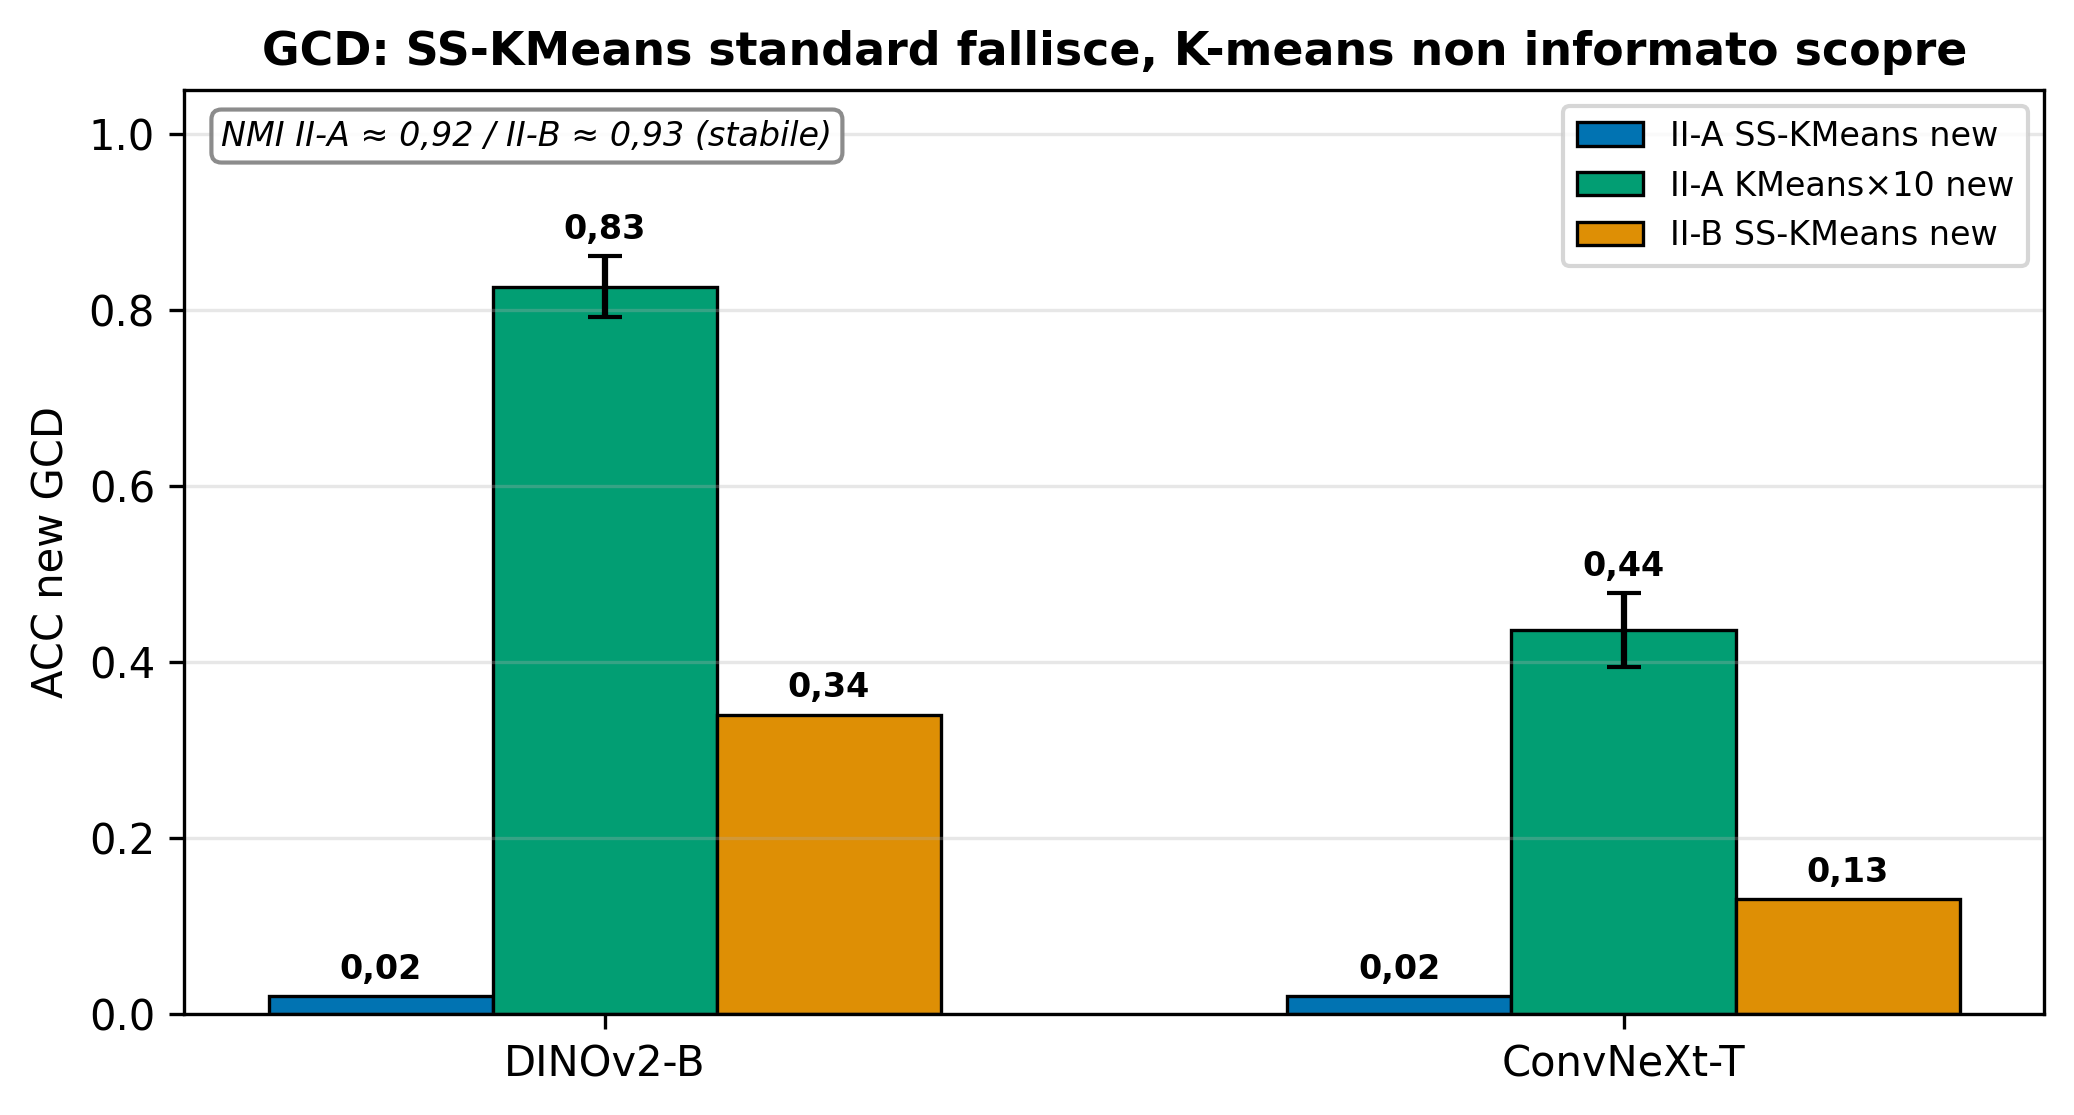
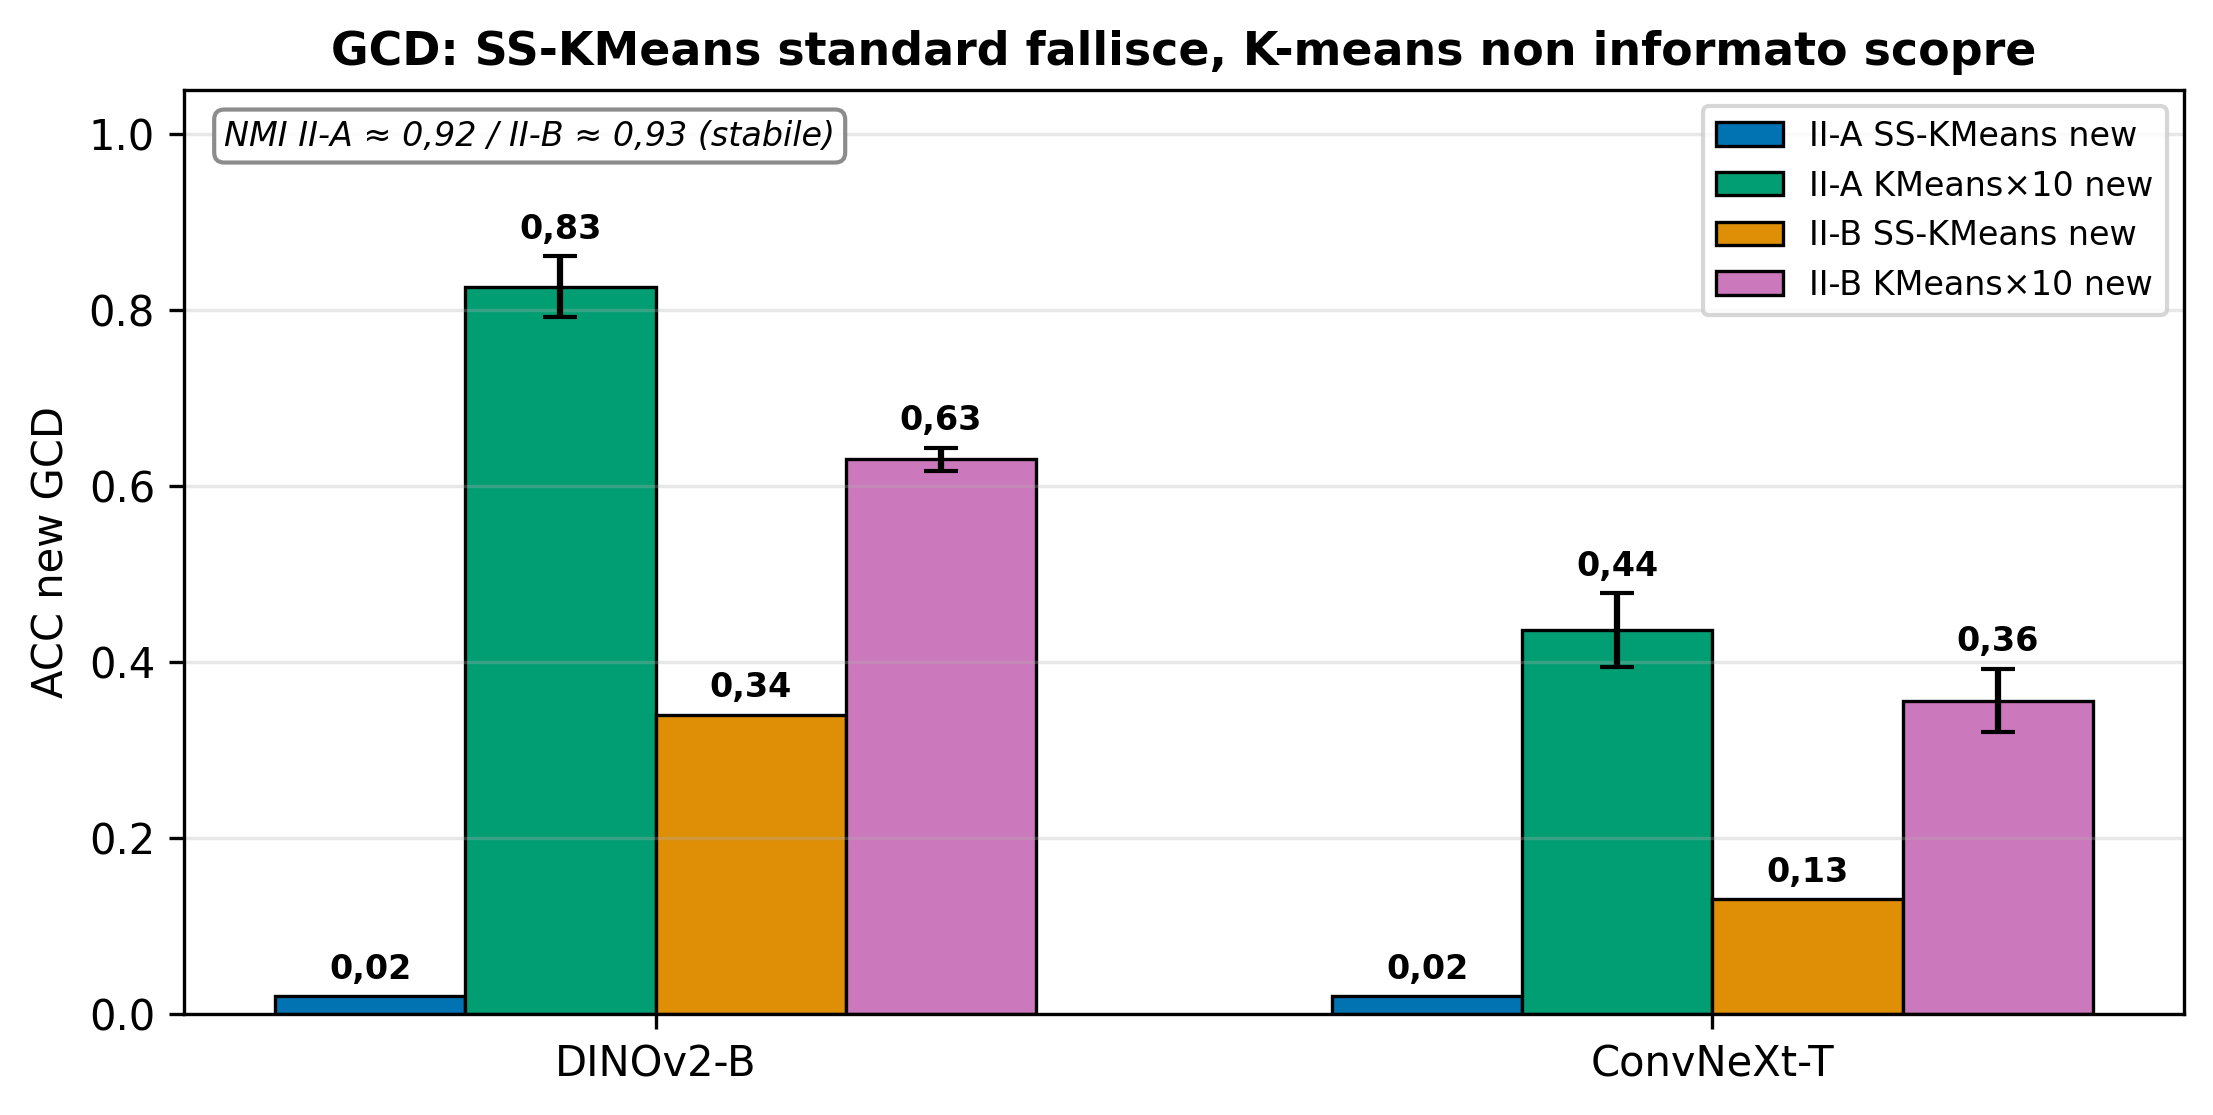
feat(gcd): barre K-meansx10 II-B (0,63-0,74 DINOv2)

diff --git a/backend/app/figures/gcd.py b/backend/app/figures/gcd.py
@@ -4,7 +4,8 @@
 Honest design: only metrics read from real result files, no invented proxies.
 - II-A (1 novel, garganica): SS-KMeans ACC_new ~0.02 (standard method fails),
   uninformed KMeansx10 ACC_new 0.83 (DINOv2-B discovers).
-- II-B (2 novel): SS-KMeans ACC_new 0.13-0.38, NMI ~0.93 stable.
+- II-B (2 novel): SS-KMeans ACC_new 0.13-0.38, NMI ~0.93 stable;
+  uninformed KMeansx10 ACC_new 0.63-0.74 on DINOv2 (discovers).
 ACC_old is by construction (labeled fixed) and lives in the table, not here.
 """
 
@@ -53,7 +54,7 @@ def _read_exp4() -> dict[str, dict[str, float]]:
 
 
 def _read_exp5() -> dict[str, dict[str, float]]:
-    """exp5 ncd_results.json -> {model: {ss_new, nmi}}."""
+    """exp5 ncd_results.json (SS-KM) + gcd_results.json (KMeansx10) -> {model: {...}}."""
     proj = Path(__file__).resolve().parents[2]
     out: dict[str, dict[str, float]] = {}
     for f in glob.glob(str(proj / "experiments" / "exp5_sphor_ncd_*" / "ncd_results.json")):
@@ -64,6 +65,18 @@ def _read_exp5() -> dict[str, dict[str, float]]:
             j = json.loads(Path(f).read_text())
             g = j.get("gcd", {}).get("ss_kmeans", {})
             out[model] = {"ss_new": float(g.get("acc_new", float("nan"))), "nmi": float(g.get("nmi", float("nan")))}
+        except Exception:
+            pass
+    for f in glob.glob(str(proj / "experiments" / "exp5_sphor_ncd_*" / "gcd_results.json")):
+        if "old" in f:
+            continue
+        model = Path(f).parent.name.replace("exp5_sphor_ncd_", "")
+        try:
+            j = json.loads(Path(f).read_text())
+            km = j.get("kmeans", {})
+            if model in out:
+                out[model]["km_new"] = float(km.get("acc_new_mean", float("nan")))
+                out[model]["km_new_std"] = float(km.get("acc_new_std", 0.0))
         except Exception:
             pass
     return out
@@ -86,8 +99,8 @@ def build_gcd(fig_dir: Path, exps: dict[int, Path]) -> list[Path]:
             "convnext_tiny": {"ss_new": 0.02, "km_new": 0.44, "km_new_std": 0.042, "nmi": 0.921},
         }
         exp5 = {
-            "dinov2_base": {"ss_new": 0.34, "nmi": 0.934},
-            "convnext_tiny": {"ss_new": 0.13, "nmi": 0.920},
+            "dinov2_base": {"ss_new": 0.34, "nmi": 0.934, "km_new": 0.630, "km_new_std": 0.013},
+            "convnext_tiny": {"ss_new": 0.13, "nmi": 0.920, "km_new": 0.356, "km_new_std": 0.036},
         }
 
     heroes = ["dinov2_base", "convnext_tiny"]
@@ -97,15 +110,17 @@ def build_gcd(fig_dir: Path, exps: dict[int, Path]) -> list[Path]:
     km4 = [exp4[h]["km_new"] for h in heroes]
     km4_std = [exp4[h]["km_new_std"] for h in heroes]
     ss5 = [exp5[h]["ss_new"] for h in heroes]
+    km5 = [exp5[h].get("km_new", float("nan")) for h in heroes]
+    km5_std = [exp5[h].get("km_new_std", 0.0) for h in heroes]
     nmi4 = float(np.nanmean([exp4[h]["nmi"] for h in heroes]))
     nmi5 = float(np.nanmean([exp5[h]["nmi"] for h in heroes]))
 
     x = np.arange(len(heroes))
-    width = 0.22
-    fig, ax = plt.subplots(figsize=(8, 4))
-    ax.bar(x - width, ss4, width, label="II-A SS-KMeans new", color=PALETTE[0], edgecolor="black", linewidth=0.8)
+    width = 0.18
+    fig, ax = plt.subplots(figsize=(8.6, 4))
+    ax.bar(x - 1.5 * width, ss4, width, label="II-A SS-KMeans new", color=PALETTE[0], edgecolor="black", linewidth=0.8)
     ax.bar(
-        x,
+        x - 0.5 * width,
         km4,
         width,
         yerr=km4_std,
@@ -115,13 +130,26 @@ def build_gcd(fig_dir: Path, exps: dict[int, Path]) -> list[Path]:
         linewidth=0.8,
         capsize=4,
     )
-    ax.bar(x + width, ss5, width, label="II-B SS-KMeans new", color=PALETTE[1], edgecolor="black", linewidth=0.8)
+    ax.bar(x + 0.5 * width, ss5, width, label="II-B SS-KMeans new", color=PALETTE[1], edgecolor="black", linewidth=0.8)
+    ax.bar(
+        x + 1.5 * width,
+        km5,
+        width,
+        yerr=km5_std,
+        label="II-B KMeans×10 new",
+        color=PALETTE[3],
+        edgecolor="black",
+        linewidth=0.8,
+        capsize=4,
+    )
     for i, v in enumerate(ss4):
-        ax.text(i - width, v + 0.02, f"{v:.2f}".replace(".", ","), ha="center", fontsize=8, fontweight="bold")
+        ax.text(i - 1.5 * width, v + 0.02, f"{v:.2f}".replace(".", ","), ha="center", fontsize=8, fontweight="bold")
     for i, v in enumerate(km4):
-        ax.text(i, v + km4_std[i] + 0.02, f"{v:.2f}".replace(".", ","), ha="center", fontsize=8, fontweight="bold")
+        ax.text(i - 0.5 * width, v + km4_std[i] + 0.02, f"{v:.2f}".replace(".", ","), ha="center", fontsize=8, fontweight="bold")
     for i, v in enumerate(ss5):
-        ax.text(i + width, v + 0.02, f"{v:.2f}".replace(".", ","), ha="center", fontsize=8, fontweight="bold")
+        ax.text(i + 0.5 * width, v + 0.02, f"{v:.2f}".replace(".", ","), ha="center", fontsize=8, fontweight="bold")
+    for i, v in enumerate(km5):
+        ax.text(i + 1.5 * width, v + km5_std[i] + 0.02, f"{v:.2f}".replace(".", ","), ha="center", fontsize=8, fontweight="bold")
     ax.set_xticks(x)
     ax.set_xticklabels(labels)
     ax.set_ylabel("ACC new GCD")
